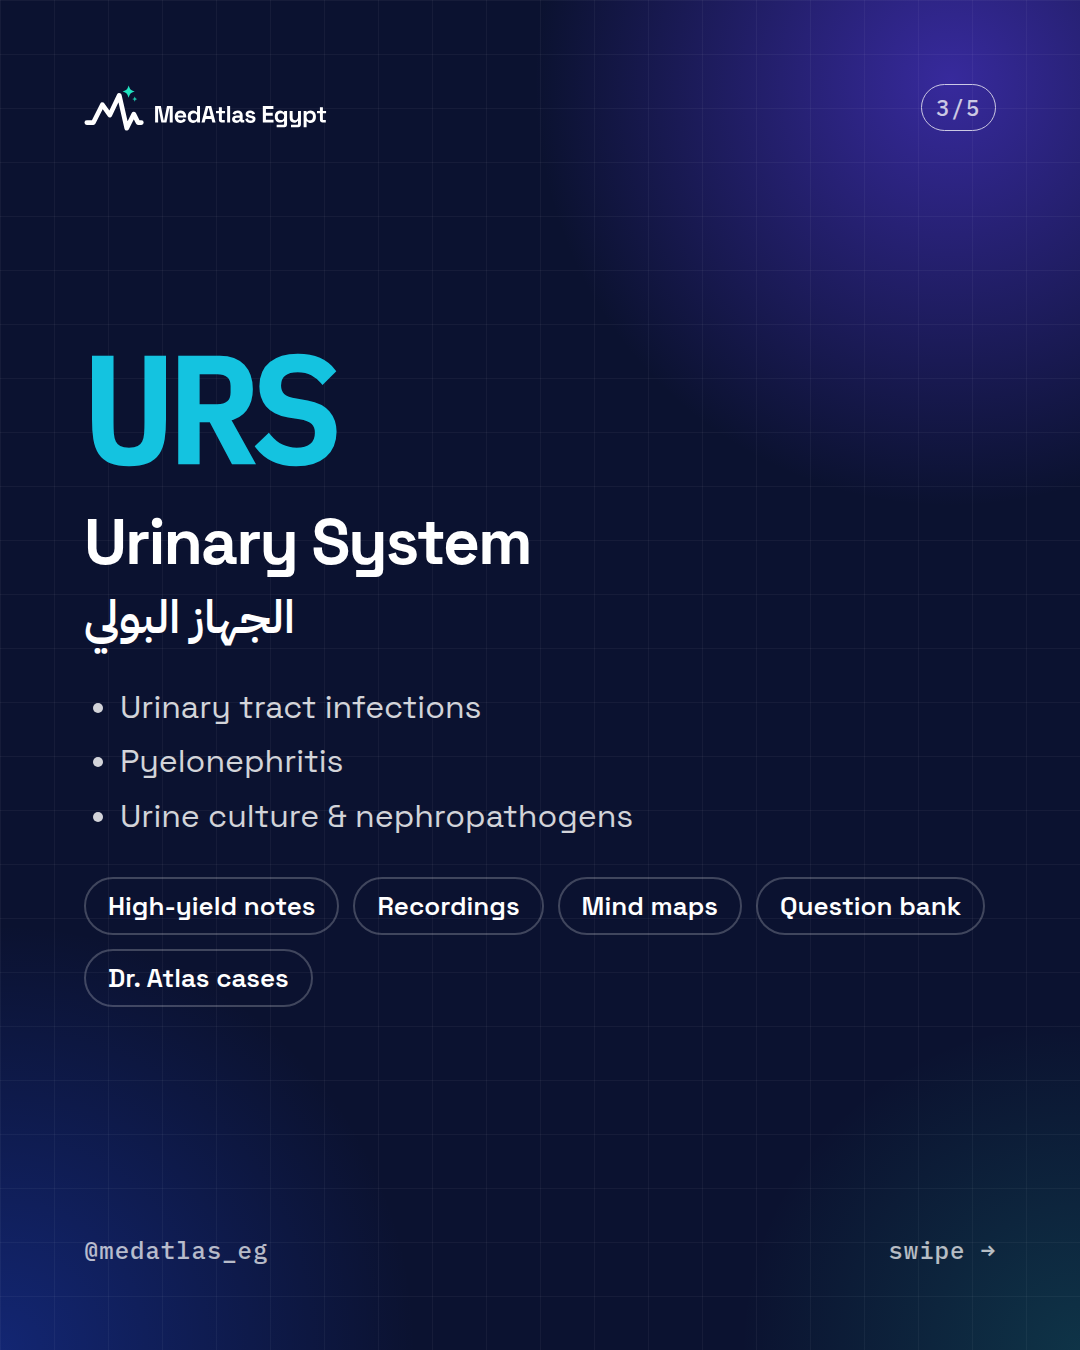
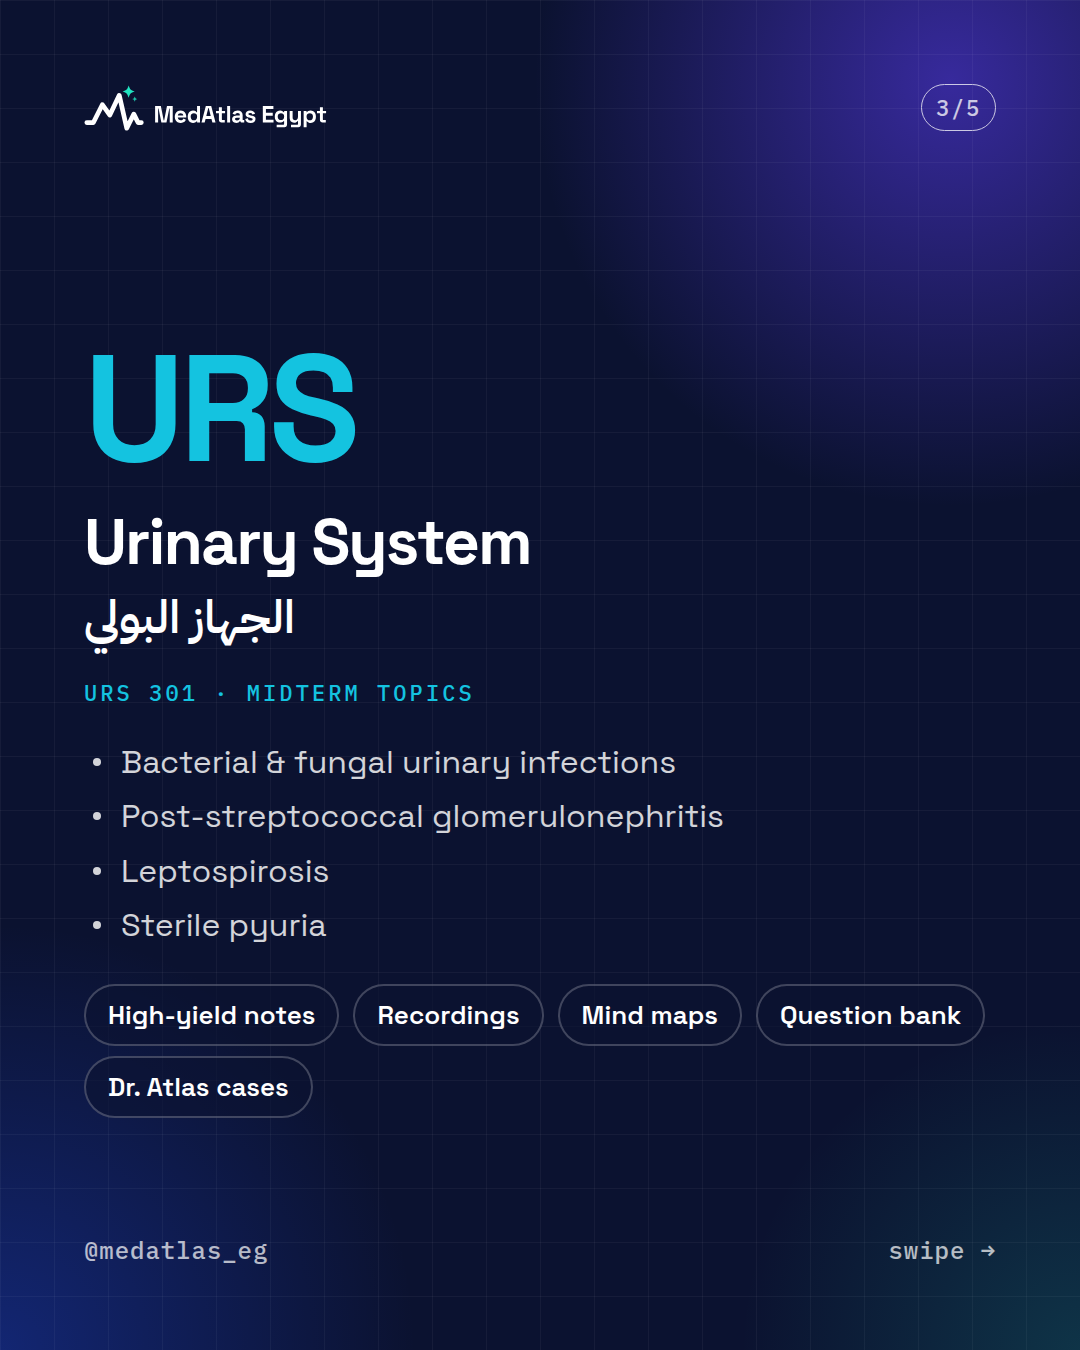
Exam packs post: midterm topics from the official Mid-Fall 2026 list

diff --git a/_source/exam-packs/post-05-exam-packs-04.html b/_source/exam-packs/post-05-exam-packs-04.html
@@ -1,0 +1,15 @@
+<!doctype html><html><head><meta charset="utf-8"><link rel="stylesheet" href="../launch.css"><style>:root{--w:1080px;--h:1350px}
+.frame{padding:84px}
+.sys{margin-top:var(--mt,202px)}
+.sys .code{font-weight:700;font-size:var(--code,150px);line-height:1.02;letter-spacing:-.035em;color:var(--c)}
+.sys .name{font-weight:700;font-size:var(--name,64px);line-height:1.06;letter-spacing:-.03em;margin-top:var(--nm,23px)}
+.sys .arn{font-family:"IBM Plex Sans Arabic";font-weight:600;direction:rtl;text-align:left;font-size:46px;line-height:1.5;margin-top:6px}
+.sys .lab{font:500 22px "IBM Plex Mono";letter-spacing:.14em;text-transform:uppercase;color:var(--c);margin-top:26px}
+ul{list-style:none;margin-top:var(--ulm,28px);font-size:var(--fs,32px);line-height:var(--lh,1.7);opacity:.82}
+ul.two{display:grid;grid-template-columns:1fr 1fr;column-gap:24px;--fs:28px;--lh:1.6}
+li{position:relative;padding-left:37px}
+li::before{content:"";position:absolute;left:9px;top:calc(var(--lh,1.7)*var(--fs,32px)/2 - 4px);width:8px;height:8px;border-radius:50%;background:currentColor}
+li.sub{grid-column:1/-1;font-weight:600;padding-left:0;opacity:1}li.sub::before{display:none}
+.chips{display:flex;flex-wrap:wrap;gap:10px 14px;margin-top:var(--cm,32px)}
+.chip{border-radius:999px;padding:12px 22px;font:600 26px "Space Grotesk";border:2px solid rgba(255,255,255,.22);background:rgba(11,18,48,.6)}
+ul.two{grid-auto-flow:column;grid-template-rows:repeat(4,auto)}</style></head><body class="dark glow grid"><div class="frame"><div class="top"><img src="../../../logo/final/svg/medatlas-logo-horizontal-reversed.svg" alt=""><span class="count">4/5</span></div><div class="sys" style="--c:var(--rep)"><div class="code">REP</div><div class="name">Reproductive System</div><div class="arn">الجهاز التناسلي</div><div class="lab">REP 301 · Midterm topics</div><ul class="two"><li>Non-venereal infections</li><li>Neisseria gonorrhoeae</li><li>Chlamydia trachomatis</li><li>Lymphogranuloma venereum</li><li>Pelvic inflammatory disease</li><li>Syphilis</li><li>Chancroid</li><li>Donovanosis</li></ul><div class="chips"><span class="chip">High-yield notes</span><span class="chip">Recordings</span><span class="chip">Mind maps</span><span class="chip">Question bank</span><span class="chip">Dr. Atlas cases</span></div></div><div class="bottom"><span>@medatlas_eg</span><span>swipe →</span></div></div></body></html>

diff --git a/_source/exam-packs/post-05-exam-packs-02.html b/_source/exam-packs/post-05-exam-packs-02.html
@@ -1,0 +1,15 @@
+<!doctype html><html><head><meta charset="utf-8"><link rel="stylesheet" href="../launch.css"><style>:root{--w:1080px;--h:1350px}
+.frame{padding:84px}
+.sys{margin-top:var(--mt,202px)}
+.sys .code{font-weight:700;font-size:var(--code,150px);line-height:1.02;letter-spacing:-.035em;color:var(--c)}
+.sys .name{font-weight:700;font-size:var(--name,64px);line-height:1.06;letter-spacing:-.03em;margin-top:var(--nm,23px)}
+.sys .arn{font-family:"IBM Plex Sans Arabic";font-weight:600;direction:rtl;text-align:left;font-size:46px;line-height:1.5;margin-top:6px}
+.sys .lab{font:500 22px "IBM Plex Mono";letter-spacing:.14em;text-transform:uppercase;color:var(--c);margin-top:26px}
+ul{list-style:none;margin-top:var(--ulm,28px);font-size:var(--fs,32px);line-height:var(--lh,1.7);opacity:.82}
+ul.two{display:grid;grid-template-columns:1fr 1fr;column-gap:24px;--fs:28px;--lh:1.6}
+li{position:relative;padding-left:37px}
+li::before{content:"";position:absolute;left:9px;top:calc(var(--lh,1.7)*var(--fs,32px)/2 - 4px);width:8px;height:8px;border-radius:50%;background:currentColor}
+li.sub{grid-column:1/-1;font-weight:600;padding-left:0;opacity:1}li.sub::before{display:none}
+.chips{display:flex;flex-wrap:wrap;gap:10px 14px;margin-top:var(--cm,32px)}
+.chip{border-radius:999px;padding:12px 22px;font:600 26px "Space Grotesk";border:2px solid rgba(255,255,255,.22);background:rgba(11,18,48,.6)}
+ul.two{grid-auto-flow:column;grid-template-rows:repeat(4,auto)}</style></head><body class="dark glow grid"><div class="frame"><div class="top"><img src="../../../logo/final/svg/medatlas-logo-horizontal-reversed.svg" alt=""><span class="count">2/5</span></div><div class="sys" style="--c:var(--cns)"><div class="code">CNS</div><div class="name">Central Nervous System</div><div class="arn">الجهاز العصبي</div><div class="lab">CNS 301-2 · Midterm topics</div><ul class="two"><li>Bacterial &amp; fungal meningitis</li><li>Neisseria meningitidis</li><li>Streptococcus agalactiae</li><li>Listeriosis</li><li>Cryptococcal meningitis</li><li>Brain abscess</li><li>Tetanus</li><li>Botulism</li></ul><div class="chips"><span class="chip">High-yield notes</span><span class="chip">Recordings</span><span class="chip">Mind maps</span><span class="chip">Question bank</span><span class="chip">Dr. Atlas cases</span></div></div><div class="bottom"><span>@medatlas_eg</span><span>swipe →</span></div></div></body></html>

diff --git a/_source/exam-packs/post-05-exam-packs-03.html b/_source/exam-packs/post-05-exam-packs-03.html
@@ -1,0 +1,15 @@
+<!doctype html><html><head><meta charset="utf-8"><link rel="stylesheet" href="../launch.css"><style>:root{--w:1080px;--h:1350px}
+.frame{padding:84px}
+.sys{margin-top:var(--mt,202px)}
+.sys .code{font-weight:700;font-size:var(--code,150px);line-height:1.02;letter-spacing:-.035em;color:var(--c)}
+.sys .name{font-weight:700;font-size:var(--name,64px);line-height:1.06;letter-spacing:-.03em;margin-top:var(--nm,23px)}
+.sys .arn{font-family:"IBM Plex Sans Arabic";font-weight:600;direction:rtl;text-align:left;font-size:46px;line-height:1.5;margin-top:6px}
+.sys .lab{font:500 22px "IBM Plex Mono";letter-spacing:.14em;text-transform:uppercase;color:var(--c);margin-top:26px}
+ul{list-style:none;margin-top:var(--ulm,28px);font-size:var(--fs,32px);line-height:var(--lh,1.7);opacity:.82}
+ul.two{display:grid;grid-template-columns:1fr 1fr;column-gap:24px;--fs:28px;--lh:1.6}
+li{position:relative;padding-left:37px}
+li::before{content:"";position:absolute;left:9px;top:calc(var(--lh,1.7)*var(--fs,32px)/2 - 4px);width:8px;height:8px;border-radius:50%;background:currentColor}
+li.sub{grid-column:1/-1;font-weight:600;padding-left:0;opacity:1}li.sub::before{display:none}
+.chips{display:flex;flex-wrap:wrap;gap:10px 14px;margin-top:var(--cm,32px)}
+.chip{border-radius:999px;padding:12px 22px;font:600 26px "Space Grotesk";border:2px solid rgba(255,255,255,.22);background:rgba(11,18,48,.6)}
+</style></head><body class="dark glow grid"><div class="frame"><div class="top"><img src="../../../logo/final/svg/medatlas-logo-horizontal-reversed.svg" alt=""><span class="count">3/5</span></div><div class="sys" style="--c:var(--urs)"><div class="code">URS</div><div class="name">Urinary System</div><div class="arn">الجهاز البولي</div><div class="lab">URS 301 · Midterm topics</div><ul><li>Bacterial &amp; fungal urinary infections</li><li>Post-streptococcal glomerulonephritis</li><li>Leptospirosis</li><li>Sterile pyuria</li></ul><div class="chips"><span class="chip">High-yield notes</span><span class="chip">Recordings</span><span class="chip">Mind maps</span><span class="chip">Question bank</span><span class="chip">Dr. Atlas cases</span></div></div><div class="bottom"><span>@medatlas_eg</span><span>swipe →</span></div></div></body></html>

diff --git a/_source/exam-packs/ep_r.js b/_source/exam-packs/ep_r.js
@@ -1,0 +1,6 @@
+const puppeteer=require('puppeteer-core');const path=require('path');
+(async()=>{const b=await puppeteer.launch({executablePath:'/usr/local/bin/google-chrome',args:['--no-sandbox','--font-render-hinting=none','--allow-file-access-from-files']});
+const p=await b.newPage();await p.setViewport({width:1080,height:1350});
+for(const n of process.argv.slice(2)){await p.goto('file://'+path.resolve('ep/'+n+'.html'),{waitUntil:'networkidle0'});await p.evaluate(()=>document.fonts.ready);
+console.log(n,await p.evaluate(()=>{const f=document.querySelector('.frame');return f.scrollHeight-f.clientHeight}));await p.screenshot({path:'/tmp/cap/ep-'+n+'.png'});}
+await b.close();})();

diff --git a/_source/exam-packs/ep_build.py b/_source/exam-packs/ep_build.py
@@ -1,0 +1,52 @@
+"""Exam packs post, slides 2-4 (one per system)."""
+import os, sys
+HERE = os.path.dirname(os.path.abspath(__file__))
+LOGO = '<img src="../../../logo/final/svg/medatlas-logo-horizontal-reversed.svg" alt="">'
+CSS = """
+.frame{padding:84px}
+.sys{margin-top:var(--mt,202px)}
+.sys .code{font-weight:700;font-size:var(--code,150px);line-height:1.02;letter-spacing:-.035em;color:var(--c)}
+.sys .name{font-weight:700;font-size:var(--name,64px);line-height:1.06;letter-spacing:-.03em;margin-top:var(--nm,23px)}
+.sys .arn{font-family:"IBM Plex Sans Arabic";font-weight:600;direction:rtl;text-align:left;font-size:46px;line-height:1.5;margin-top:6px}
+.sys .lab{font:500 22px "IBM Plex Mono";letter-spacing:.14em;text-transform:uppercase;color:var(--c);margin-top:26px}
+ul{list-style:none;margin-top:var(--ulm,28px);font-size:var(--fs,32px);line-height:var(--lh,1.7);opacity:.82}
+ul.two{display:grid;grid-template-columns:1fr 1fr;column-gap:24px;--fs:28px;--lh:1.6}
+li{position:relative;padding-left:37px}
+li::before{content:"";position:absolute;left:9px;top:calc(var(--lh,1.7)*var(--fs,32px)/2 - 4px);width:8px;height:8px;border-radius:50%;background:currentColor}
+li.sub{grid-column:1/-1;font-weight:600;padding-left:0;opacity:1}li.sub::before{display:none}
+.chips{display:flex;flex-wrap:wrap;gap:10px 14px;margin-top:var(--cm,32px)}
+.chip{border-radius:999px;padding:12px 22px;font:600 26px "Space Grotesk";border:2px solid rgba(255,255,255,.22);background:rgba(11,18,48,.6)}
+"""
+CHIPS = "".join(f'<span class="chip">{c}</span>' for c in ["High-yield notes", "Recordings", "Mind maps", "Question bank", "Dr. Atlas cases"])
+
+
+def slide(name, n, code, color, en, ar, items, extra="", label=""):
+    two = ' class="two"' if len(items) > 4 else ""
+    lis = "".join(f'<li class="sub">{i[1:]}</li>' if i.startswith("#") else f"<li>{i}</li>" for i in items)
+    lab = f'<div class="lab">{label}</div>' if label else ""
+    html = (f'<!doctype html><html><head><meta charset="utf-8"><link rel="stylesheet" href="../launch.css">'
+            f'<style>:root{{--w:1080px;--h:1350px}}{CSS}{extra}</style></head><body class="dark glow grid"><div class="frame">'
+            f'<div class="top">{LOGO}<span class="count">{n}/5</span></div>'
+            f'<div class="sys" style="--c:{color}"><div class="code">{code}</div><div class="name">{en}</div><div class="arn">{ar}</div>{lab}<ul{two}>{lis}</ul>'
+            f'<div class="chips">{CHIPS}</div></div>'
+            f'<div class="bottom"><span>@medatlas_eg</span><span>swipe →</span></div></div></body></html>')
+    open(os.path.join(HERE, "ep", f"{name}.html"), "w").write(html)
+
+
+if __name__ == "__main__" and sys.argv[1:] == ["orig"]:
+    slide("orig-04", 4, "REP", "var(--rep)", "Reproductive System", "الجهاز التناسلي",
+          ["Sexually transmitted infections", "Genital ulcers", "Reproductive microbiology"])
+
+if __name__ == "__main__" and not sys.argv[1:]:
+    TWO = "ul.two{grid-auto-flow:column;grid-template-rows:repeat(4,auto)}"
+    slide("post-05-exam-packs-02", 2, "CNS", "var(--cns)", "Central Nervous System", "الجهاز العصبي",
+          ["Bacterial &amp; fungal meningitis", "Neisseria meningitidis", "Streptococcus agalactiae", "Listeriosis",
+           "Cryptococcal meningitis", "Brain abscess", "Tetanus", "Botulism"],
+          TWO, "CNS 301-2 · Midterm topics")
+    slide("post-05-exam-packs-03", 3, "URS", "var(--urs)", "Urinary System", "الجهاز البولي",
+          ["Bacterial &amp; fungal urinary infections", "Post-streptococcal glomerulonephritis", "Leptospirosis", "Sterile pyuria"],
+          "", "URS 301 · Midterm topics")
+    slide("post-05-exam-packs-04", 4, "REP", "var(--rep)", "Reproductive System", "الجهاز التناسلي",
+          ["Non-venereal infections", "Neisseria gonorrhoeae", "Chlamydia trachomatis", "Lymphogranuloma venereum",
+           "Pelvic inflammatory disease", "Syphilis", "Chancroid", "Donovanosis"],
+          TWO, "REP 301 · Midterm topics")

diff --git a/CAPTIONS.md b/CAPTIONS.md
@@ -26,8 +26,8 @@ Ask anything from your lectures and practise bedside cases step by step.
 AI can make mistakes, so always check against your course material. راجع دايماً على المحاضرات.
 
 **5 · Exam packs** (`post-05-exam-packs-01…05`)
-One pack per system: CNS, URS, REP. مراجعة الامتحان 📚
-High-yield notes, recordings, mind maps, question bank and Dr. Atlas cases, all in one place.
+One pack per system for the Mid-Fall 2026 microbiology midterm: CNS 301-2, URS 301, REP 301. مراجعة الميدترم 📚
+Every topic on the official list, with high-yield notes, recordings, mind maps, question bank and Dr. Atlas cases, all in one place.
 
 **6 · CSF table** (`post-06-csf`)
 CSF in meningitis: bacterial vs viral vs TB. احفظ الجدول ده قبل الامتحان 🧠
